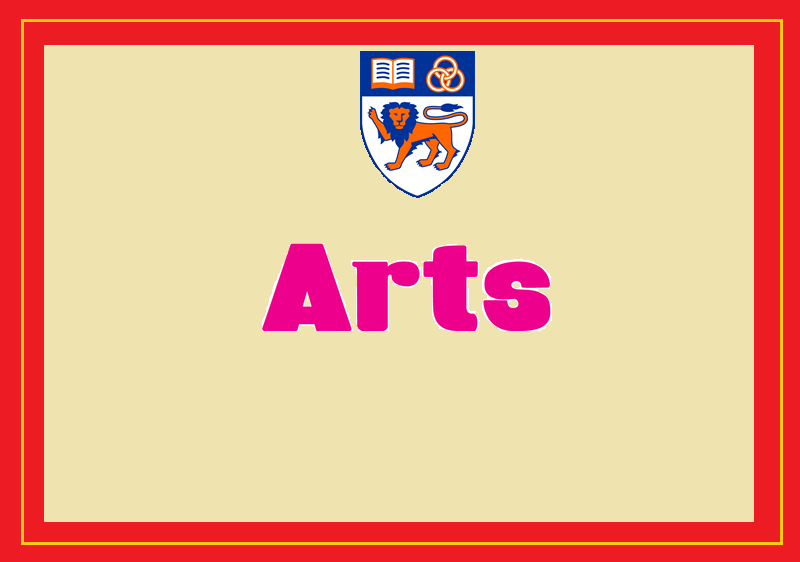
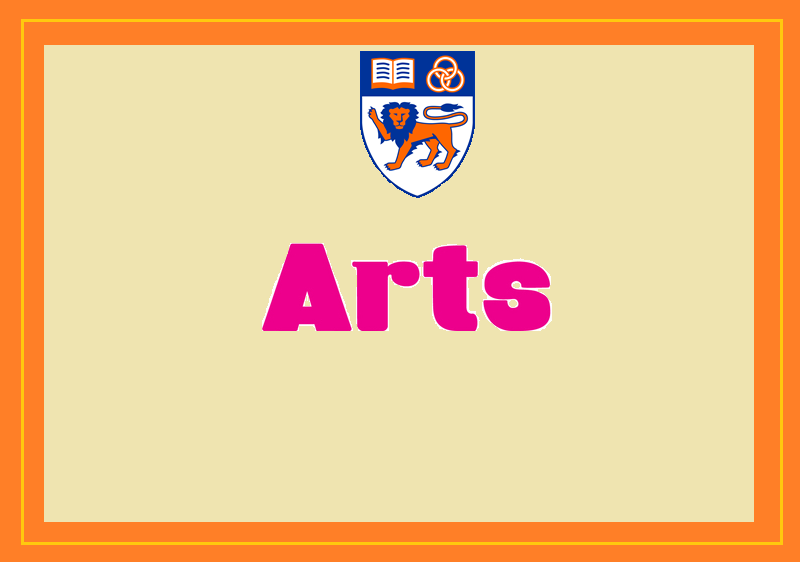
bg changing done

Changed region(s): [[0.0, 0.0, 1.0, 1.0]]

diff --git a/js/core/SimulationManager.js b/js/core/SimulationManager.js
@@ -23,9 +23,32 @@ function SimulationManager(){
 		var destinationFaculty = document.getElementById('location').options[document.getElementById('location').selectedIndex].value;
 
 		var destinationUni = document.getElementById('location').options[document.getElementById('location').selectedIndex].parentNode.label;
-
 		document.getElementById('display-uni').innerHTML = destinationUni;
-
+		switch(destinationFaculty){
+			case "engineNUS":
+				bgImg.src = "images/nus_engin.png";
+				break;
+			case "artsNUS":
+				bgImg.src = "images/nus_arts.png";
+				break;
+			case "lawNUS":
+				bgImg.src = "images/nus_law.png";
+				break;
+			case "engineNTU":
+				bgImg.src = "images/ntu_engin.png";
+				break;
+			case "artsNTU":
+				bgImg.src = "images/ntu_arts.png";
+				break;
+			case "lawNTU":
+				bgImg.src = "images/ntu_law.png";
+				break;
+		}
+		// if(ABSTRACT_LEVEL == 1){
+            // context.clearRect(0,0,canvas.width,canvas.height);
+            // context.drawImage(bgImg, 0, 0);
+        // }
+		
 		if(currentUni == destinationUni) {
 
 			abstractTwoMovement();
